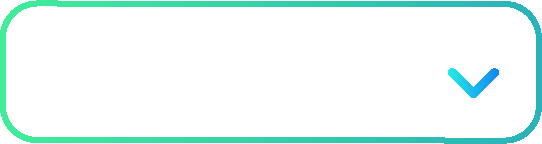
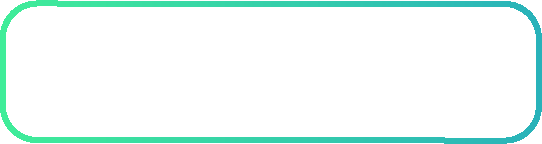
L add

Changed region(s): [[0.8266, 0.4722, 0.9446, 0.6944]]

diff --git a/src/app/packagesx/packagesx.page.html b/src/app/packagesx/packagesx.page.html
@@ -4,25 +4,25 @@
   </ion-toolbar>
 </ion-header>
 
-<ion-content padding>
+<ion-content>
   <div class="main">
     <div class="content" text-center>
-        <ion-grid>
+        <ion-grid> 
             <ion-row>
               <ion-col col-6>
-                  <ion-item lines="none" class="inputs_header">
-                      <ion-label>From</ion-label>
-                      <ion-select #froma (ionChange)="selectFrom(froma.value)">
-                        <ion-select-option *ngFor="let From of FROMs" [value]="From">{{From._DepartureLocationId.Name}}</ion-select-option>
-                      </ion-select>
+                  <ion-item lines="none" class="inputs_harf">
+                      <!--<ion-label>From</ion-label>-->
+                      <select #froma (ionChange)="selectFrom(froma.value)" placeholder="From" style="width:100%;">
+                        <option *ngFor="let From of FROMs" [value]="From">{{From._DepartureLocationId.Name}}</option>
+                      </select>
                     </ion-item>
               </ion-col>
               <ion-col col-6>
-                  <ion-item lines="none" class="inputs_header">
-                      <ion-label>To</ion-label>
-                      <ion-select #toa (ionChange)="selectTo(toa.value)">
-                        <ion-select-option *ngFor="let TO of TOs" [value]="TO">{{TO._DestinationCountryId.Name}}</ion-select-option>
-                      </ion-select>
+                  <ion-item lines="none" class="inputs_harf">
+                      <!--ion-label>To</ion-label>-->
+                      <select #toa (ionChange)="selectTo(toa.value)" placeholder="To">
+                        <option *ngFor="let TO of TOs" [value]="TO">{{TO._DestinationCountryId.Name}}</option>
+                      </select>
                     </ion-item>
               </ion-col>
             </ion-row>
@@ -97,7 +97,7 @@
           <ion-col col-6>
             <ion-item lines="none" class="inputs_harf">
               <ion-label>Hotel Option</ion-label>
-              <ion-select #roomCategory (ionChange)="selectRoomCategory(roomCategory.value)">
+              <ion-select #roomCategory (ionChange)="selectRoomCategory(roomCategory.value)" >
                 <ion-select-option *ngFor="let ROOMCATEGORY of ROOMCATEGORIES" [value]="ROOMCATEGORY">{{ROOMCATEGORY.Name}}</ion-select-option>
               </ion-select>
             </ion-item>

diff --git a/src/app/packagesx/packagesx.page.scss b/src/app/packagesx/packagesx.page.scss
@@ -1,3 +1,23 @@
+.main{
+    background-image: url('../../assets/imgs/bg-profile.png');
+    background-repeat: repeat;
+    background-size: 100% 100%;
+    height: 100vh;
+}
+.content
+{
+    width: 90%;
+    text-align: left;
+    margin: 0 auto;
+    padding-top: 5vh;
+}
+ion-grid
+{
+    padding: 0 !important;
+    margin: 0 !important;
+    //color: #FFFFFF !important;
+    //text-transform: uppercase;
+}
 .in-item .hydrated
 {
    display: none !important;
@@ -8,7 +28,7 @@
     background-image: url('../../assets/imgs/bg_pk_full.png') !important;
     background-size: 100% 100% !important;
     width: 100% !important;
-    //height: 50px !important;
+    height: 50px !important;
     border: none;
     margin: 5px 0;
     //padding: 10px 0;
@@ -19,7 +39,9 @@
 .sc-ion-label-ios-h {
     margin: 0 !important;
 }
-
+.inputs_harf .select-icon {
+    visibility: hidden;
+}
 .select-icon-inner, .select-icon, .select-text {
     display: none !important;  /* hidden triangle icon and selected text */
 }
@@ -29,13 +51,18 @@
     background-image: url('../../assets/imgs/bg_pk_harf.png') !important;
     background-size: 100% 100% !important;
     width: 100% !important;
-    //height: 50px !important;
+    height: 50px !important;
     border: none;
     margin:0;
     //padding: 10px 0;
     text-align: left;
     //font-size: 26px;
-    color: black;
+    color: black !important;
+}
+
+.inputs_header .ion-label
+{
+    color: white !important;
 }
 
 .inputs_header{
@@ -50,6 +77,20 @@
     text-align: left;
     //font-size: 26px;
     color: white;
+}
+
+.inputs_header .inputs {
+    background: transparent;
+    background-image: url('../../assets/imgs/bg_pk_full.png') !important;
+    background-size: 100% 100% !important;
+    width: 100% !important;
+    height: 30px !important;
+    border: none;
+    margin: 5px 0;
+    //padding: 10px 0;
+    text-align: left;
+    //font-size: 26px;
+    color: black;
 }
 
 
@@ -69,4 +110,8 @@
     color: #ffffff;
     font-size: 26px;
     
+}
+:host(.in-item) {
+    position: static;
+    max-width: 100% !important;
 }
